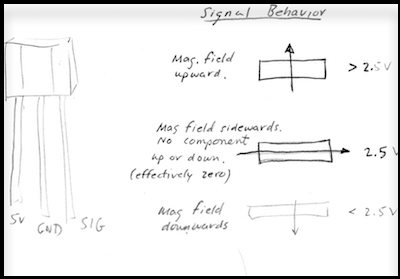
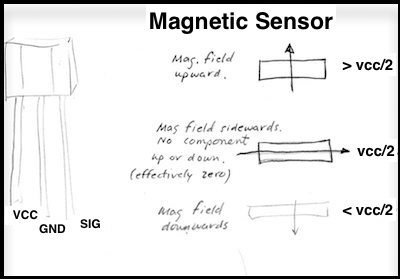
edit mag sensor

diff --git a/SC_lab/Sensors/magnetic/index.html b/SC_lab/Sensors/magnetic/index.html
@@ -7,11 +7,12 @@
 
 ###[Hall Sensor](https://www.digikey.com/products/en?keywords=620-1432) that we use.
 
-Datasheet [here](https://www.allegromicro.com/~/media/Files/Datasheets/A1324-5-6-Datasheet.ashx).  Connections and behavior as a sensor are shown below.  Can be
+Datasheet [here](https://www.allegromicro.com/~/media/Files/Datasheets/A1324-5-6-Datasheet.ashx).  Connections and behavior as a sensor are shown below. 
 The sensor is only sensitive to the magnetic field component perpendicular to its face.
 
 ![pic](./Hall-pic.png)
 ![pic](./Hall_sketch.jpg)
+![pic](./Hall_metro.jpg)
 
 ###Hall sensor used with a magnet as a position sensor.
 
@@ -21,7 +22,23 @@ as a vector quentity is shown by arrows, representing direction and intensity (a
 
 ![pic](./magfields.jpg)
 
+###Calibration
+
+Calibration of the Hall device as a distance sensor.  The magnetic field near the axis of the cylindrical magnet points along the axis, and decreases rapidly with distance.  The variation of sensor signal with magent distance can be used to make a position sensor.  Below is the setup for calibration.  Paper cards are added around the sensor to bring the surface up to the level of the sensor face.  The magnet is placed in a repeatable way over the sensor, with cardboard spacers used to vary the distance.
+
+![pic](./calib1.jpg)
+![pic](./calib2.jpg)
+![pic](./calib3.jpg)
+
+Below is the calibration data, and a graph on signal vs. distance, in mm.  This sensor is quite sensitive for distances less than ~10 mm.  As the distance increases from zero, the signal does not go up until about 1mm (not shown in this data.)  So the useful range is about 2-8 mm.
+
+![pic](./calib4.jpg)
+![pic](./calib5.jpg)
+
+
 ###Accelerometer using Hall sensor.
+
+These pictures show a Hall sensor used as a distance probe, to act as an acceleration sensor.
 
 ![pic](./mag_accel01.jpg)
 ![pic](./mag_accel01A.jpg)

diff --git a/SC_lab/Sensors/piezo.html b/SC_lab/Sensors/piezo.html
@@ -1,7 +1,7 @@
 <html>
 <head>
 
-    <title>Contact mic.</title>
+    <title>Piezoelectric disc.</title>
     <meta charset='utf-8'>
 
     <link rel='stylesheet' href='./../../HartMar2016.css' type='text/css'>
@@ -12,7 +12,7 @@
 
 <section>
     <h2>Piezoelectric element for force, vibration, sound.</h2>
-    <p>Below is shown a piezoelectric disc, and its connections to Arduino.  The schematic on the right is equiavalent to the photograph on the left.</p>
+    <p>Below is shown a piezoelectric disc, and its connections to Arduino.  The schematic on the right is equivalent to the photograph on the left.</p>
       <p>The two 1MOhm resistors keep the average voltage level near 3.3V/2 = 1.65 V.  Use the voltage that is generated as the disc flexes to detect vibration, sound, force.  Notice that the voltage is transient - the level returns to 1.7 V after a fraction of a second.  For steady state measurement of force, try capacitance sensing.</p>
     <img src='./piezo_metro.jpg' width="400px" >
       <img src='./piezo_schem.jpg' width="600px" >
